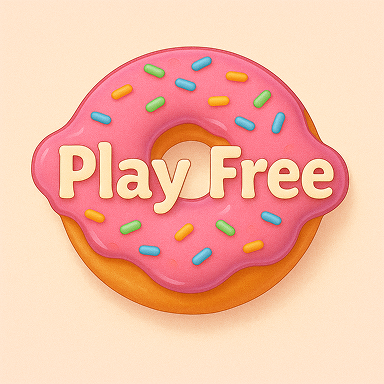
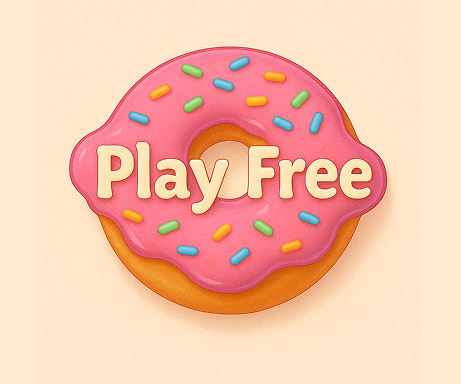
fix-hero-donut-size

diff --git a/src/css/hero.css b/src/css/hero.css
@@ -51,14 +51,10 @@
 
 .hero-donut-img {
   object-fit: cover;
-  border-radius: 40px;
-  box-shadow: 0 4px 50px 0 rgba(255, 0, 229, 0.35);
-  transition: scale 300ms ease-in-out, box-shadow 300ms ease-in-out;
+  width: 100%;
+  height: 100%;
+  display: block;
   @media screen and (min-width: 1200px) {
-    &:hover {
-      scale: 1.02;
-      box-shadow: 0 4px 70px 0 rgba(255, 0, 229, 0.35);
-    }
   }
 }
 
@@ -66,10 +62,17 @@
   max-width: 130px;
   display: flex;
   order: 2;
+  border-radius: 40px;
+  overflow: hidden;
+  box-shadow: 0 4px 50px 0 rgba(255, 0, 229, 0.35);
+  transition: scale 300ms ease-in-out, box-shadow 300ms ease-in-out;
   @media screen and (width >= 1200px) {
     max-width: 331px;
     max-height: 240px;
-    display: flex;
+    &:hover {
+      scale: 1.02;
+      box-shadow: 0 4px 70px 0 rgba(255, 0, 229, 0.35);
+    }
   }
 }
 
@@ -78,11 +81,19 @@
   margin-left: 20px;
   display: flex;
   order: 3;
+  border-radius: 40px;
+  overflow: hidden;
+  box-shadow: 0 4px 50px 0 rgba(255, 0, 229, 0.35);
+  transition: scale 300ms ease-in-out, box-shadow 300ms ease-in-out;
   @media screen and (width >= 1200px) {
     margin-left: 0;
     max-width: 331px;
     max-height: 350px;
     order: 4;
+    &:hover {
+      scale: 1.02;
+      box-shadow: 0 4px 70px 0 rgba(255, 0, 229, 0.35);
+    }
   }
 }
 

diff --git a/src/partials/hero.html b/src/partials/hero.html
@@ -4,15 +4,15 @@
       <source
         media="(min-width: 375px)"
         srcset="
-          /img/header/header_game.png    1x,
-          /img/header/header_game@2x.png 2x
+          /img/header/header_game.webp    1x,
+          /img/header/header_game@2x.webp 2x
         "
       />
       <source
         media="(max-width: 320px)"
         srcset="
-          /img/header/header_game-mob.png    1x,
-          /img/header/header_game-mob@2x.png 2x
+          /img/header/header_game-mob.png     1x,
+          /img/header/header_game-mob@2x.webp 2x
         "
       />
       <img
@@ -43,8 +43,8 @@
         class="hero-donut-img"
         src="/img/hero/hero_playfree_mob@1x.png"
         srcset="
-          /img/hero/hero_playfree_desk@1x.png 1x,
-          /img/hero/hero_playfree_desk@2x.png 2x
+          /img/hero/hero_playfree_mob@1x.png 1x,
+          /img/hero/hero_playfree_mob@2x.png 2x
         "
         alt="play free donut"
       />
